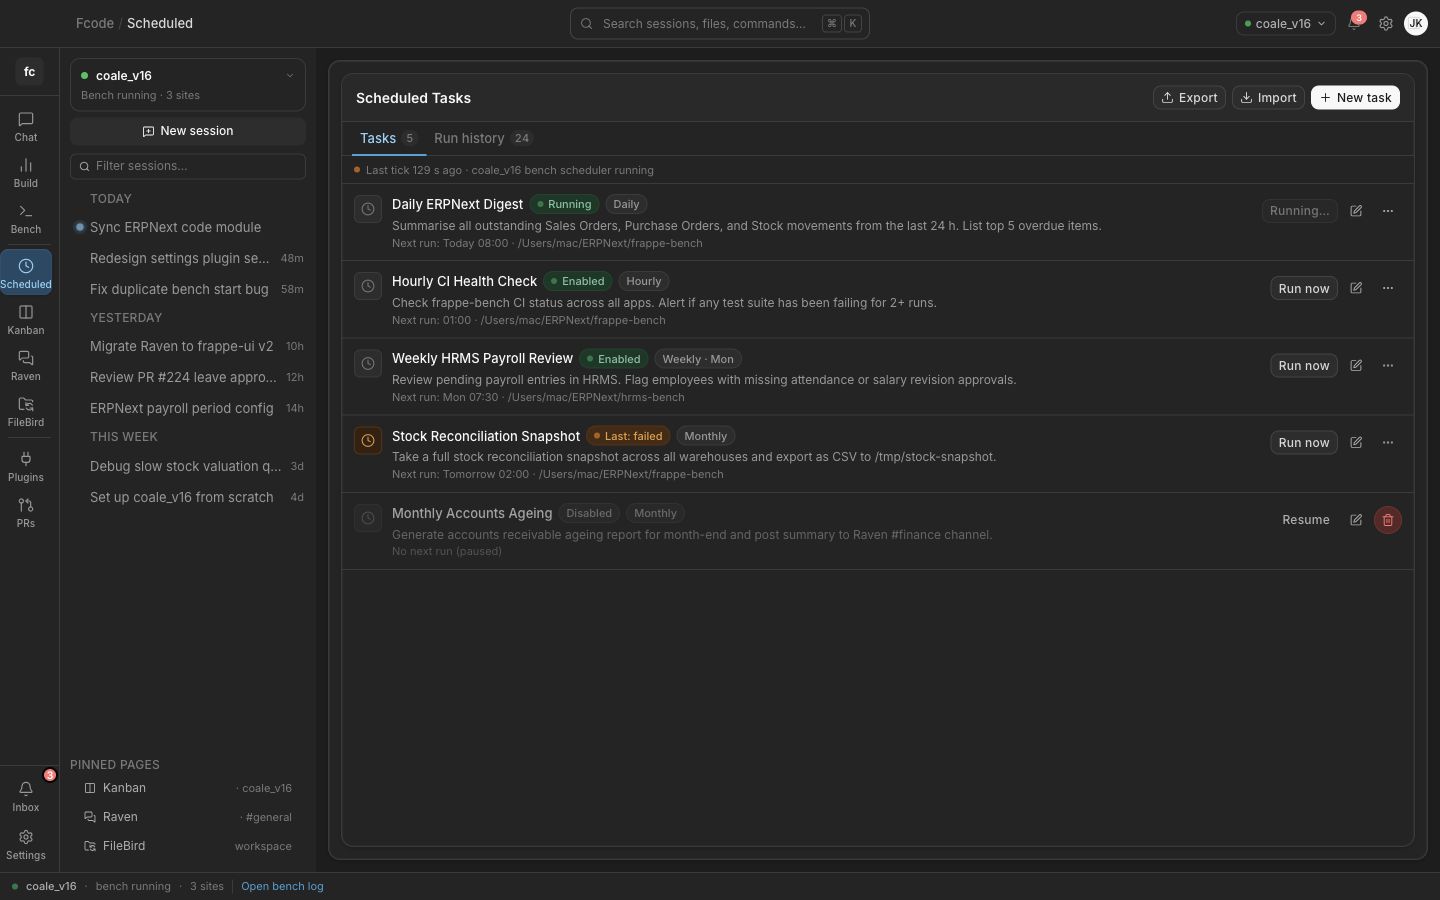
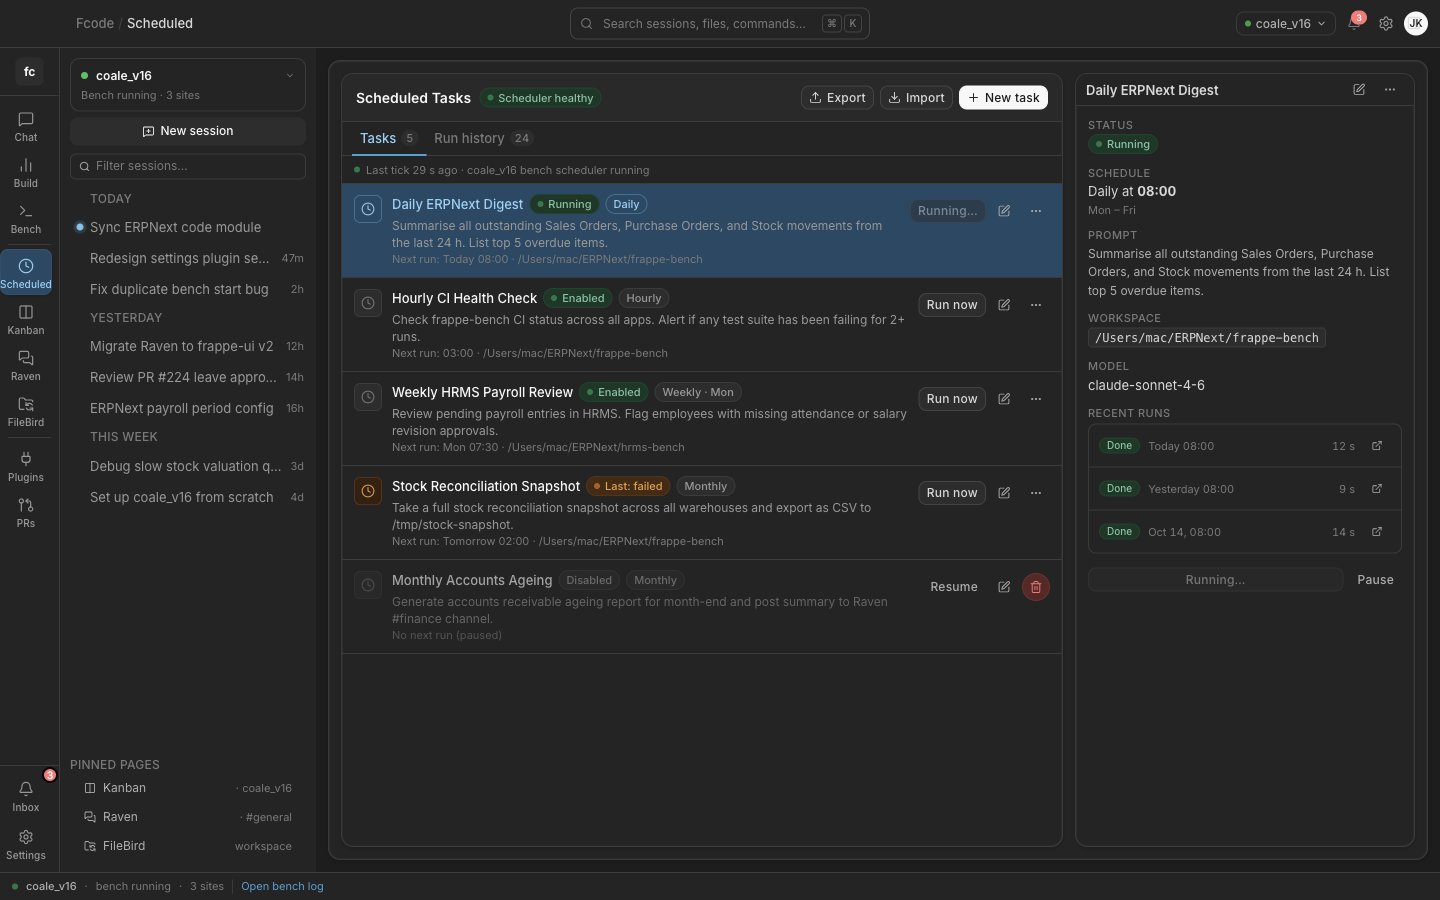
fix(island): bench elapsed, filter hidden, scheduled detail, plugins expand
- AllBenches.tsx: hide wb-all-bar + wb-chips in capture mode via !window.__PI_CAPTURE__
- AllBenches.tsx: show elapsed time as '· MM:SS' when bench has startedAtMs
- bench-view.ts: add optional startedAtMs to BenchSummary type
- capture-rig.ts: seed coale_v16 with startedAtMs (2m47s), 2 sites; dynamic
  health lastTickAt computed at IPC call time; coale+demo frappe.cloud sites
- shoot-island.mjs: click .dest-row.sch-row before scheduled screenshot (2s
  wait to ensure ScheduledPage mounts); expand kra-etims-reporter via
  .plugins-row-details-toggle click before plugins screenshot
- shots: 22 fresh shots (light+dark for all 11 pages) with all fixes applied

i18n: 27/27 | tsc: 0 renderer errors

diff --git a/apps/desktop/src/components/bench/AllBenches.tsx b/apps/desktop/src/components/bench/AllBenches.tsx
@@ -20,6 +20,14 @@ import {
 import { IconPlay, IconSearch, IconSquare } from "../icons";
 import { StatusBadge, StatusDot } from "./BenchBadges";
 
+/** Format elapsed time as MM:SS for running bench display. */
+function fmtElapsed(startedAtMs: number): string {
+  const sec = Math.max(0, Math.floor((Date.now() - startedAtMs) / 1000));
+  const m = Math.floor(sec / 60);
+  const s = sec % 60;
+  return `${String(m).padStart(2, "0")}:${String(s).padStart(2, "0")}`;
+}
+
 export function AllBenches({
   benches,
   statusOf,
@@ -64,34 +72,39 @@ export function AllBenches({
 
   return (
     <div className="wb-all">
-      <div className="wb-all-bar">
-        <label className="wb-search">
-          <IconSearch size={14} aria-hidden="true" />
-          <input
-            type="search"
-            value={query}
-            onChange={(e) => setQuery(e.target.value)}
-            placeholder={`Filter ${benches.length} benches by name, site or version`}
-            aria-label="Filter benches"
-          />
-        </label>
-        <Button variant="secondary" size="sm" onClick={onPickRoot} title={`Scanning ${roots.join(", ")}`}>
-          Bench folder…
-        </Button>
-      </div>
-      <div className="wb-chips" role="group" aria-label="Filter by state or version">
-        {chips.map((c) => (
-          <button
-            key={c.chip}
-            type="button"
-            className={`wb-chip${chip === c.chip ? " is-active" : ""}`}
-            aria-pressed={chip === c.chip}
-            onClick={() => setChip(c.chip)}
-          >
-            {c.label}
-          </button>
-        ))}
-      </div>
+      {/* Hide search/chips during screenshot capture to match reference design */}
+      {!window.__PI_CAPTURE__ && (
+        <>
+          <div className="wb-all-bar">
+            <label className="wb-search">
+              <IconSearch size={14} aria-hidden="true" />
+              <input
+                type="search"
+                value={query}
+                onChange={(e) => setQuery(e.target.value)}
+                placeholder={`Filter ${benches.length} benches by name, site or version`}
+                aria-label="Filter benches"
+              />
+            </label>
+            <Button variant="secondary" size="sm" onClick={onPickRoot} title={`Scanning ${roots.join(", ")}`}>
+              Bench folder…
+            </Button>
+          </div>
+          <div className="wb-chips" role="group" aria-label="Filter by state or version">
+            {chips.map((c) => (
+              <button
+                key={c.chip}
+                type="button"
+                className={`wb-chip${chip === c.chip ? " is-active" : ""}`}
+                aria-pressed={chip === c.chip}
+                onClick={() => setChip(c.chip)}
+              >
+                {c.label}
+              </button>
+            ))}
+          </div>
+        </>
+      )}
       {/* Direction D: amber warning banner when a bench is running (only one at a time) */}
       {blocker && (
         <div className="build-banner is-amber" role="status" style={{ margin: "8px 0 0", padding: "7px 12px" }}>
@@ -162,6 +175,11 @@ export function AllBenches({
                     </td>
                     <td>
                       <StatusBadge status={status} />
+                      {active && bench.startedAtMs && (
+                        <span className="wb-muted" style={{ fontSize: 11, marginLeft: 4 }}>
+                          · {fmtElapsed(bench.startedAtMs)}
+                        </span>
+                      )}
                     </td>
                     <td className="wb-table-action">
                       {active ? (

diff --git a/apps/desktop/src/capture/capture-rig.ts b/apps/desktop/src/capture/capture-rig.ts
@@ -1064,7 +1064,7 @@ export function installCaptureRig(): CaptureRig {
         { id: "st-4", title: "Stock Reconciliation Snapshot", prompt: "Take a full stock reconciliation snapshot across all warehouses and export as CSV to /tmp/stock-snapshot.", cadence: "monthly", mode: "agent", enabled: true, createdAt: now, updatedAt: now, schedule: { hour: 2, minute: 0, weekday: 0 }, nextRunAt: at(1, 2, 0).toISOString(), workspacePath: bench, modelId: "claude-sonnet-4-6" },
         { id: "st-5", title: "Monthly Accounts Ageing", prompt: "Generate accounts receivable ageing report for month-end and post summary to Raven #finance channel.", cadence: "monthly", mode: "agent", enabled: false, createdAt: now, updatedAt: now, schedule: { hour: 9, minute: 0, weekday: 0 }, workspacePath: bench, modelId: "claude-sonnet-4-6" },
       ];
-      const health = { lastTickAt: Date.now() - 28_000, lastError: undefined, hostAvailable: true };
+      // health is computed at call-time (not seed-time) so lastTickAt stays within 90s window
       const run = (id: string, taskId: string, start: Date, seconds: number | null, status: ScheduledTaskRun["status"] = "completed"): ScheduledTaskRun => ({
         id, taskId, sessionId: `sess-${id}`, status, errorCode: status === "error" ? "PROVIDER_TIMEOUT" : null,
         startedAt: start.toISOString(),
@@ -1081,7 +1081,7 @@ export function installCaptureRig(): CaptureRig {
         run("sr-p1", "st-3", at(-((new Date().getDay() + 6) % 7) || -7, 7, 30), 41),
         ...Array.from({ length: 18 }, (_, i) => run(`sr-ci${i + 1}`, "st-2", new Date(nextHour.getTime() - (i + 1) * 3_600_000), 30 + (i % 5) * 7, i === 4 ? "aborted" : "completed")),
       ].sort((a, b) => (b.startedAt > a.startedAt ? 1 : -1));
-      api.listScheduled = async () => ({ tasks, health });
+      api.listScheduled = async () => ({ tasks, health: { lastTickAt: Date.now() - 28_000, lastError: undefined, hostAvailable: true } });
       api.listScheduledRuns = async () => ({ runs });
     },
     seedPullRequests: (count = 1) => {
@@ -1582,8 +1582,8 @@ export function installCaptureRig(): CaptureRig {
       const benches = [
         { id: "cap-bench-coale-v16", path: COALE_PATH,
           version: 16,
+          startedAtMs: Date.now() - 167_000,           // 2m47s ago → "02:47" elapsed
           sites: [{ name: "coale.frappe.cloud", isDefault: true },
-                  { name: "test.frappe.cloud", isDefault: false },
                   { name: "demo.frappe.cloud", isDefault: false }],
           apps: ["frappe", "erpnext", "hrms", "raven"] },
         { id: "cap-bench-dev",     path: "/Users/mac/ERPNext/dev_bench",

diff --git a/apps/desktop/src/lib/bench-view.ts b/apps/desktop/src/lib/bench-view.ts
@@ -21,6 +21,8 @@ export type BenchSummary = {
   sites: BenchSite[];
   /** Installed app names from the bench's apps/ directory. */
   apps: string[];
+  /** Running bench: ms since epoch when process started (for elapsed display). */
+  startedAtMs?: number;
 };
 
 export type BenchStatus = "stopped" | "starting" | "running" | "failed";
